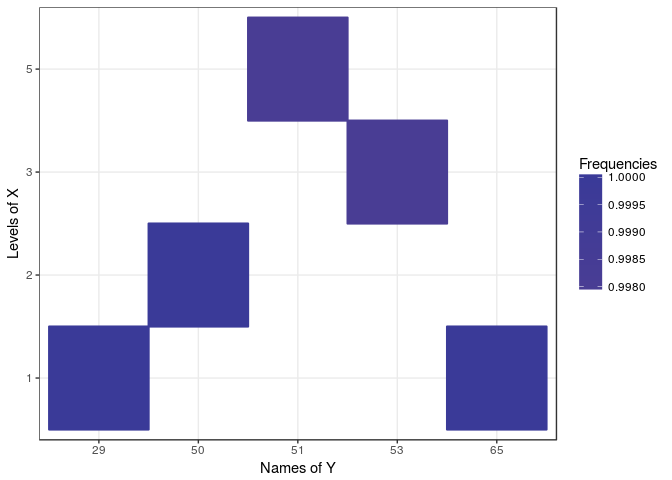
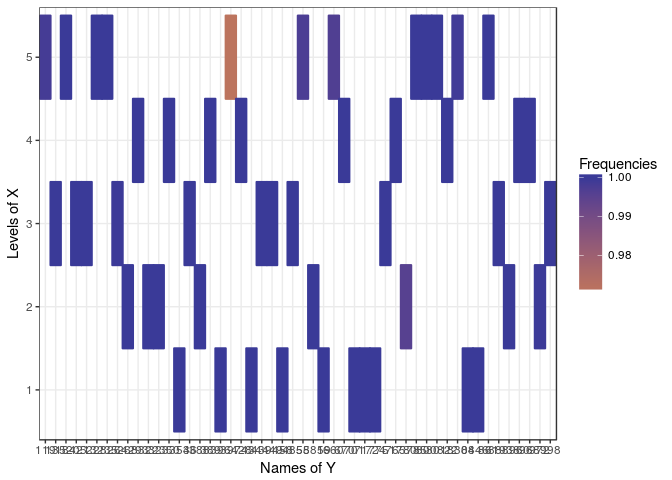
readme_md

diff --git a/README.md b/README.md
@@ -50,7 +50,7 @@ We first show an application of our methodology to a simulated data set where th
 
 ``` r
 n <- 30
-q <- 100
+q <- 1000
 p <- 5
 rho <- 0.9
 sparsity <- 0.01
@@ -100,9 +100,9 @@ result
 ```
 
     ##          Pvalue    Decision
-    ## AR1       0.509 WHITE NOISE
-    ## ARMA 1 1  0.507 WHITE NOISE
-    ## nonparam  0.937 WHITE NOISE
+    ## AR1       0.816 WHITE NOISE
+    ## ARMA 1 1  0.819 WHITE NOISE
+    ## nonparam  0.989 WHITE NOISE
 
 We then select the simplest model that allows us to remove the dependence in the data, in that case the *A**R*(1) modelling. We compute the square root of the inverse of the estimator of the covariance matrix of each row of the residuals matrix using the *A**R*(1) modelling as follows:
 
@@ -118,7 +118,7 @@ In order to be able to use the Lasso criterion we will apply the vec operator to
 The Lasso criterion applied to $\\mathcal{Y}}=vec(\\boldsymbol{Y}\\widehat{\\boldsymbol{\\Sigma}}\_q^{-1/2})$ will provide an estimation of the non null positions of ℬ = *v**e**c*(**B**) and hence the non null positions of *B*. In order to avoid false positive positions we add a stability selection step. These different steps (whitening, vectorization, Lasso, stability selection) are implemented in the function of the R package .
 
 ``` r
-Frequencies=variable_selection(Y = Y, X = X, nb_repli = 50, typeDep =  "AR1")
+Frequencies=variable_selection(Y = Y, X = X, nb_repli = 500, typeDep =  "AR1")
 ```
 
 In the previous command line, corresponds to the number of replications which is used in the stability selection. Here it is equal to 50 but in practice we recommend to take it equal to 1000. The following plot displays the frequencies at which each coefficient of *B* is considered as being non null.
@@ -133,7 +133,7 @@ p
 
 ![](README_files/figure-markdown_github/unnamed-chunk-9-1.png)
 
-If we take a threshold of 0.95, meaning that we keep as non null values only the ones that are considered as non null in more than 95% of the times we have a True Positive Rate equal to 1 and a False Positive Rate equal to 0.
+If we take a threshold of 0.95, meaning that we keep as non null values only the ones that are considered as non null in more than 95% of the times we have a True Positive Rate equal to 0.98 and a False Positive Rate equal to 2.02020210^{-4}.
 
 An exemple in metabolomics
 --------------------------
@@ -142,7 +142,7 @@ In this section we study a LC-MS (Liquid Chromatography-Mass Spectrometry) data 
 
 ``` r
 data("copals_camera")
-Y <- Y %>%  as.data.frame() %>% select(1:200) %>% scale()
+Y <- scale(Y)
 ```
 
 We build the design matrix as follows
@@ -163,7 +163,7 @@ Then we test if the columns of the residuals are independent using the Portmante
 whitening_test(residuals)
 ```
 
-    ## [1] 5.676735e-229
+    ## [1] 0
 
 The *p* − *v**a**l**u**e* is really small and thus the hypothesis that each row of *E* is a white noise is rejected. We try our different covariance modellings for the residuals and see if one manages to remove the dependence among the columns of the residuals matrix by using a Portmanteau test.
 
@@ -174,27 +174,34 @@ result
 
     ##          Pvalue       Decision
     ## AR1           0 NO WHITE NOISE
-    ## nonparam  0.992    WHITE NOISE
-    ## ARMA 1 1  0.653    WHITE NOISE
+    ## nonparam  0.664    WHITE NOISE
+    ## ARMA 1 1      0 NO WHITE NOISE
 
 From this result, we observe that the *A**R*(1) modelling does not remove the dependence among the data but the two others do. We select the *A**R**M**A*(1, 1) modelling which is simpler than the nonparametric one.
 
 In this application, the design matrix *X* is the design matrix of a one-way ANOVA. In that scenario we recommend to use the argument "your qualitative variable" in the function. This argument will ensure that in the cross-validation the different fold are homogeneously distributed among the levels of the qualitative variable.
 
 ``` r
-Frequencies <- variable_selection(Y = Y, group = group, nb_repli = 100, typeDep = 'ARMA', pAR = 1, qMA = 1)
+Frequencies <- variable_selection(Y = Y, group = group, nb_repli = 500, typeDep = 'ARMA', pAR = 1, qMA = 1)
 ```
 
 The following plot displays the frequencies at which each coefficient of *B* is considered as being non null which corresponds to the features (m/z values) characterizing the different levels.
 
 ``` r
 Frequencies$Names_of_Y <- as.numeric(gsub('X','',Frequencies$Names_of_Y))
+```
+
+    ## Warning: NAs introduits lors de la conversion automatique
+
+``` r
 p <- ggplot(data = Frequencies[Frequencies$Frequencies >= 0.95, ],
            aes(x = Names_of_Y, y = Names_of_X, color = Frequencies, fill = Frequencies)) +
            geom_tile(size = 0.75) + scale_color_gradient2(midpoint = 0.95, mid = 'orange')  + scale_fill_gradient2(midpoint = 0.95, mid = 'orange') +
            theme_bw() + ylab('Levels of X') + xlab('m/z')
 p
 ```
+
+    ## Warning: Removed 1 rows containing missing values (geom_tile).
 
 ![](README_files/figure-markdown_github/unnamed-chunk-16-1.png)
 
